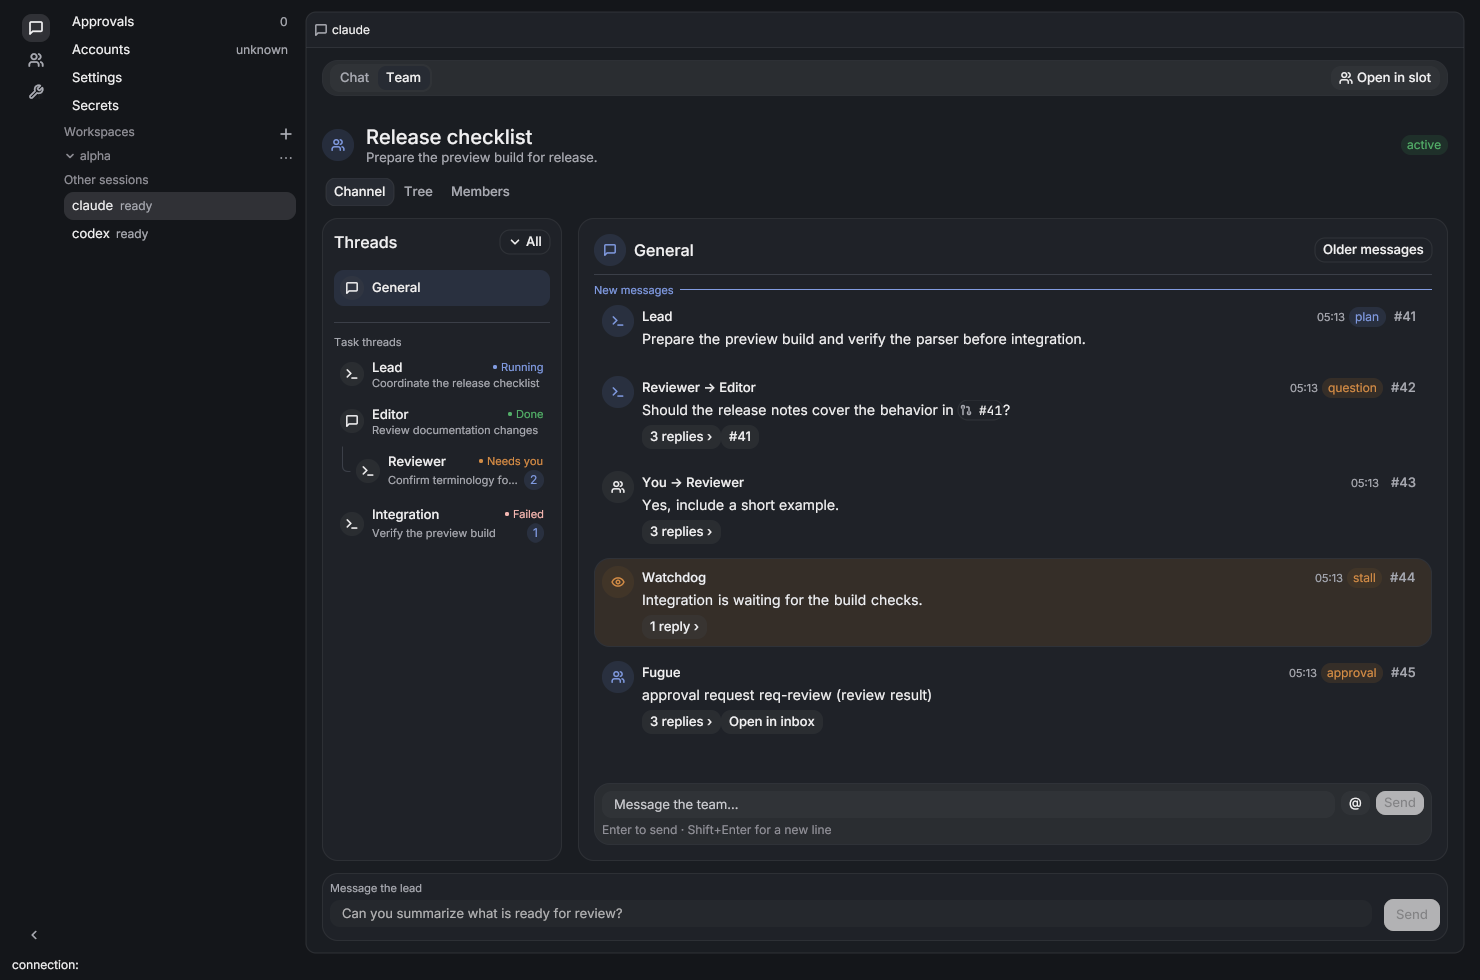
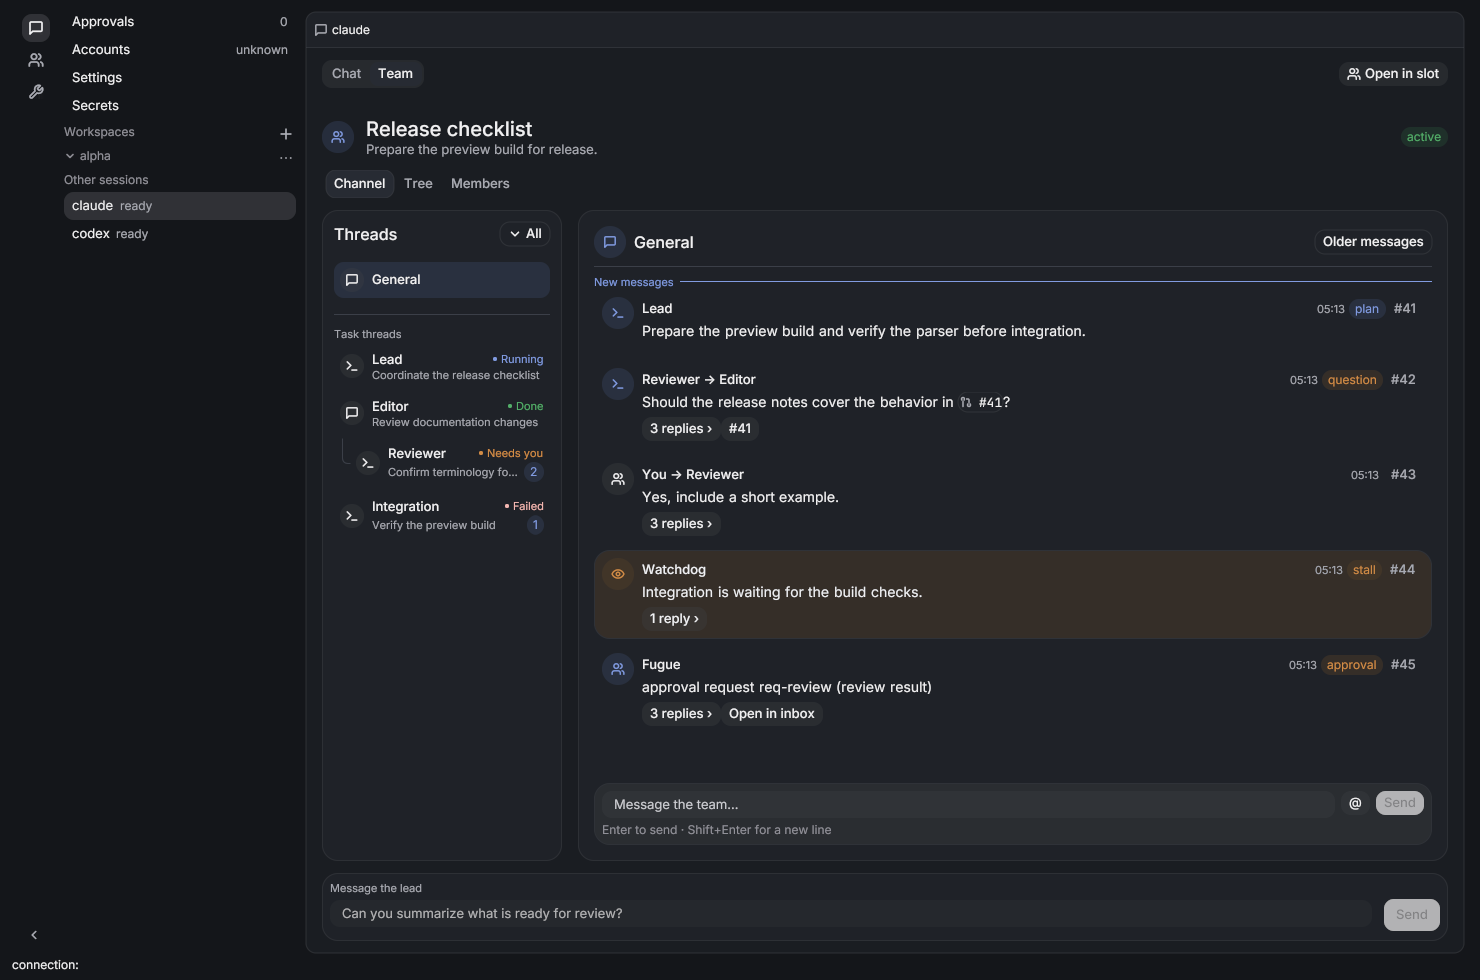
fix(ui): remove the Chat and Team toolbar background (FUG-19)

diff --git a/ui/internal/appwin/team_shell.go b/ui/internal/appwin/team_shell.go
@@ -67,16 +67,14 @@ func (s *screens) layoutTeamSessionHeader(gtx *layout.Context, env *kit.Env, sh 
 		return s.layoutCreateTeam(gtx, env, sh, id)
 	}
 	return layout.Inset{Top: theme.SpaceLG, Bottom: theme.SpaceLG, Left: theme.SpaceXL, Right: theme.SpaceXL}.Layout(*gtx, func(g layout.Context) layout.Dimensions {
-		return teamPanel(g, env, env.Th.Chrome().FillSoft, layout.Inset{Left: theme.SpaceMD, Right: theme.SpaceMD, Top: theme.SpaceXS, Bottom: theme.SpaceXS}, func(g layout.Context) layout.Dimensions {
-			return layout.Flex{Alignment: layout.Middle}.Layout(g,
-				rigidWidget(func(g *layout.Context) layout.Dimensions { return s.layoutTeamMode(g, env, sh, summary.TeamID) }),
-				layout.Flexed(1, func(g layout.Context) layout.Dimensions { return layout.Dimensions{Size: g.Constraints.Min} }),
-				channelButton(env, s, sh.open, kit.ButtonProps{Text: "Open in slot", Icon: kit.IconUsers, Size: kit.SizeSM}, func() {
-					s.boardFor(teamBoardKey{team: summary.TeamID}).channel.reopen()
-					s.grid.openCompanion(SlotRef{Kind: KindTeam, ID: summary.TeamID})
-				}),
-			)
-		})
+		return layout.Flex{Alignment: layout.Middle}.Layout(g,
+			rigidWidget(func(g *layout.Context) layout.Dimensions { return s.layoutTeamMode(g, env, sh, summary.TeamID) }),
+			layout.Flexed(1, func(g layout.Context) layout.Dimensions { return layout.Dimensions{Size: g.Constraints.Min} }),
+			channelButton(env, s, sh.open, kit.ButtonProps{Text: "Open in slot", Icon: kit.IconUsers, Size: kit.SizeSM}, func() {
+				s.boardFor(teamBoardKey{team: summary.TeamID}).channel.reopen()
+				s.grid.openCompanion(SlotRef{Kind: KindTeam, ID: summary.TeamID})
+			}),
+		)
 	})
 }
 
